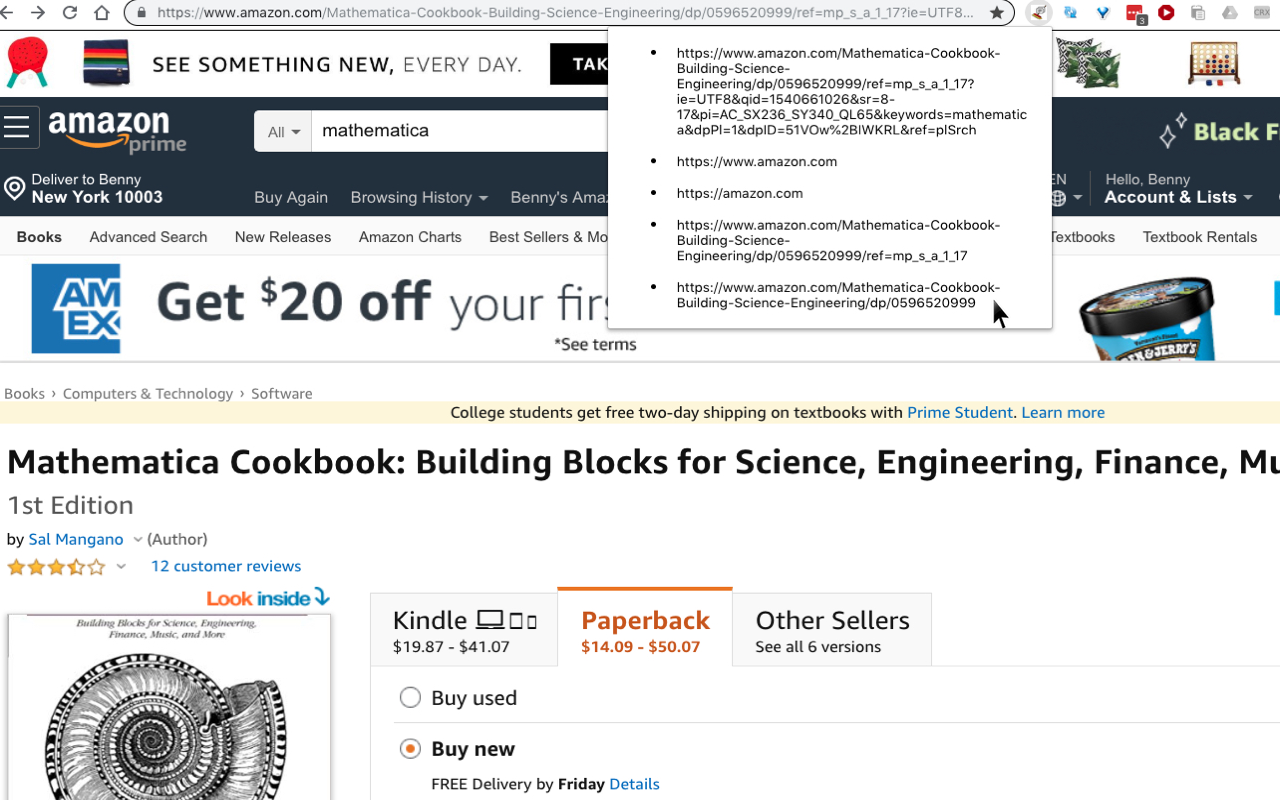
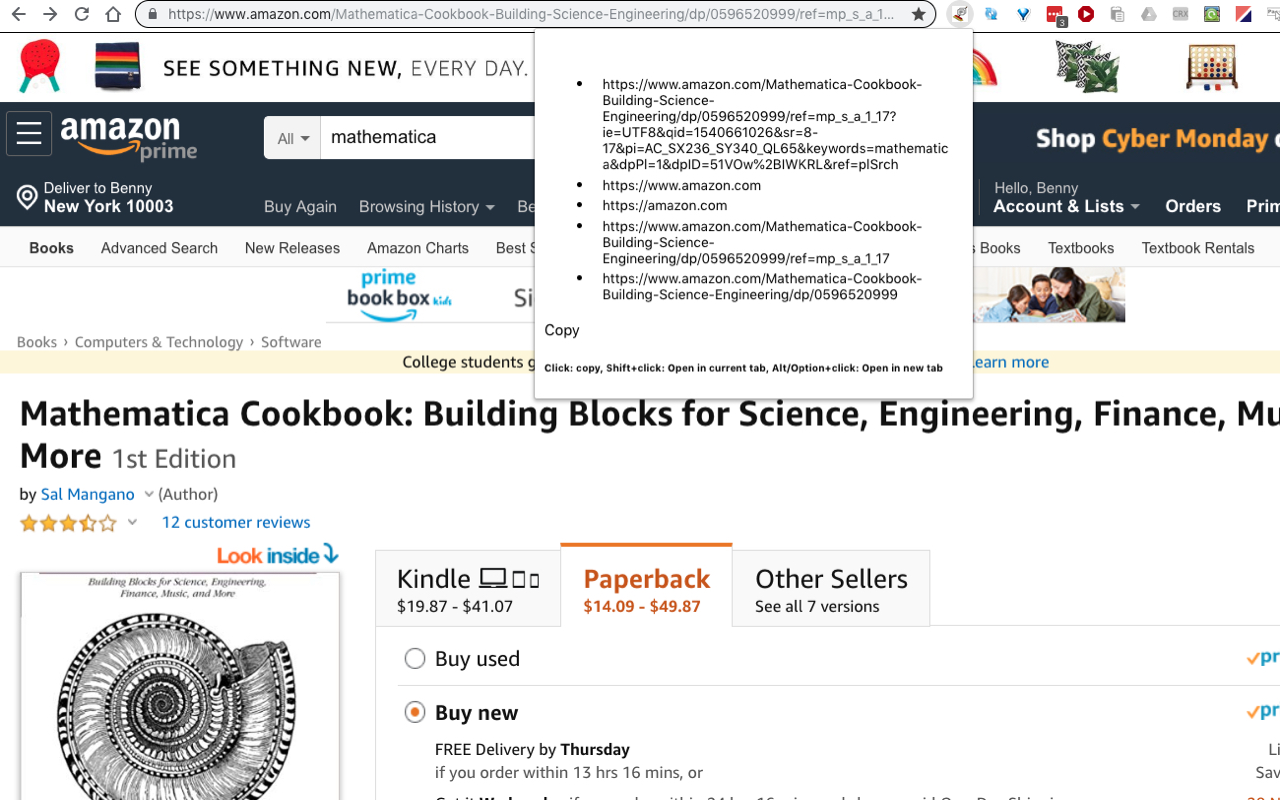
Version 1.0.1 issues

diff --git a/popup.html b/popup.html
@@ -9,14 +9,6 @@
                 width: 300px;
             }
 
-            ul li:after {
-                content: "";
-                display: block;
-                height: 1 px;
-                width: 40%;
-                margin: 10px;
-                background: #f00;
-            }
 
 
         </style>
